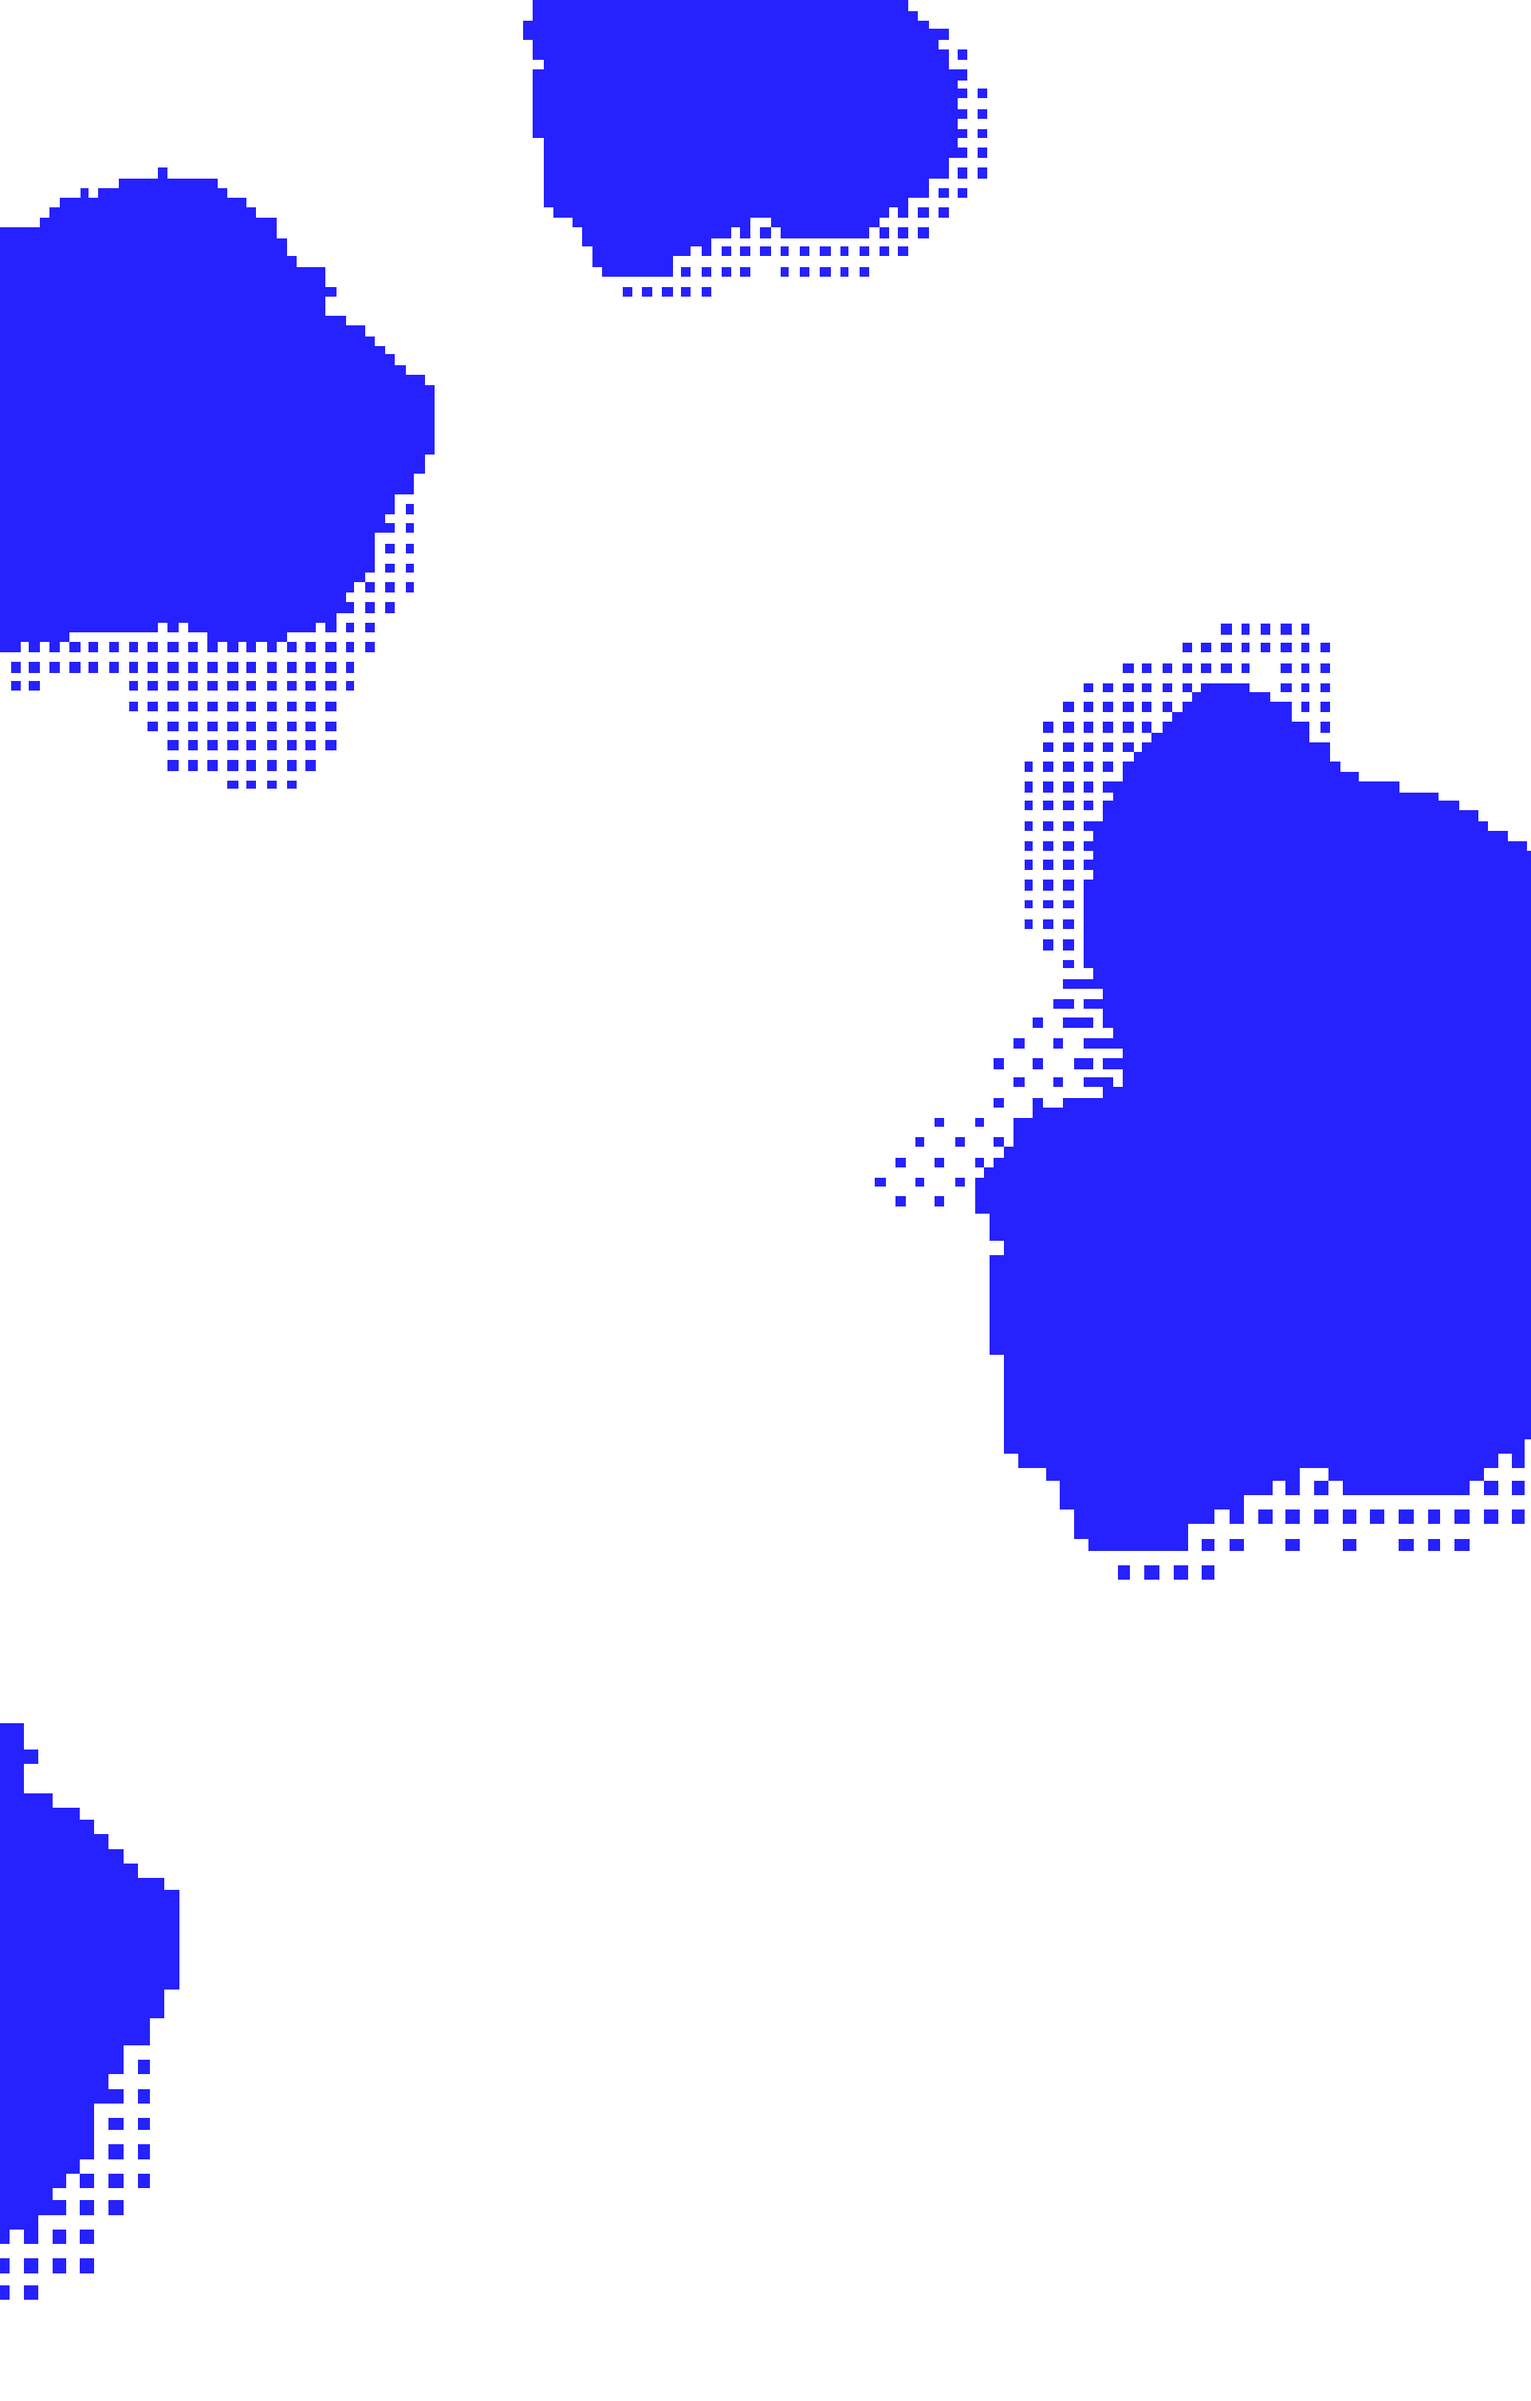
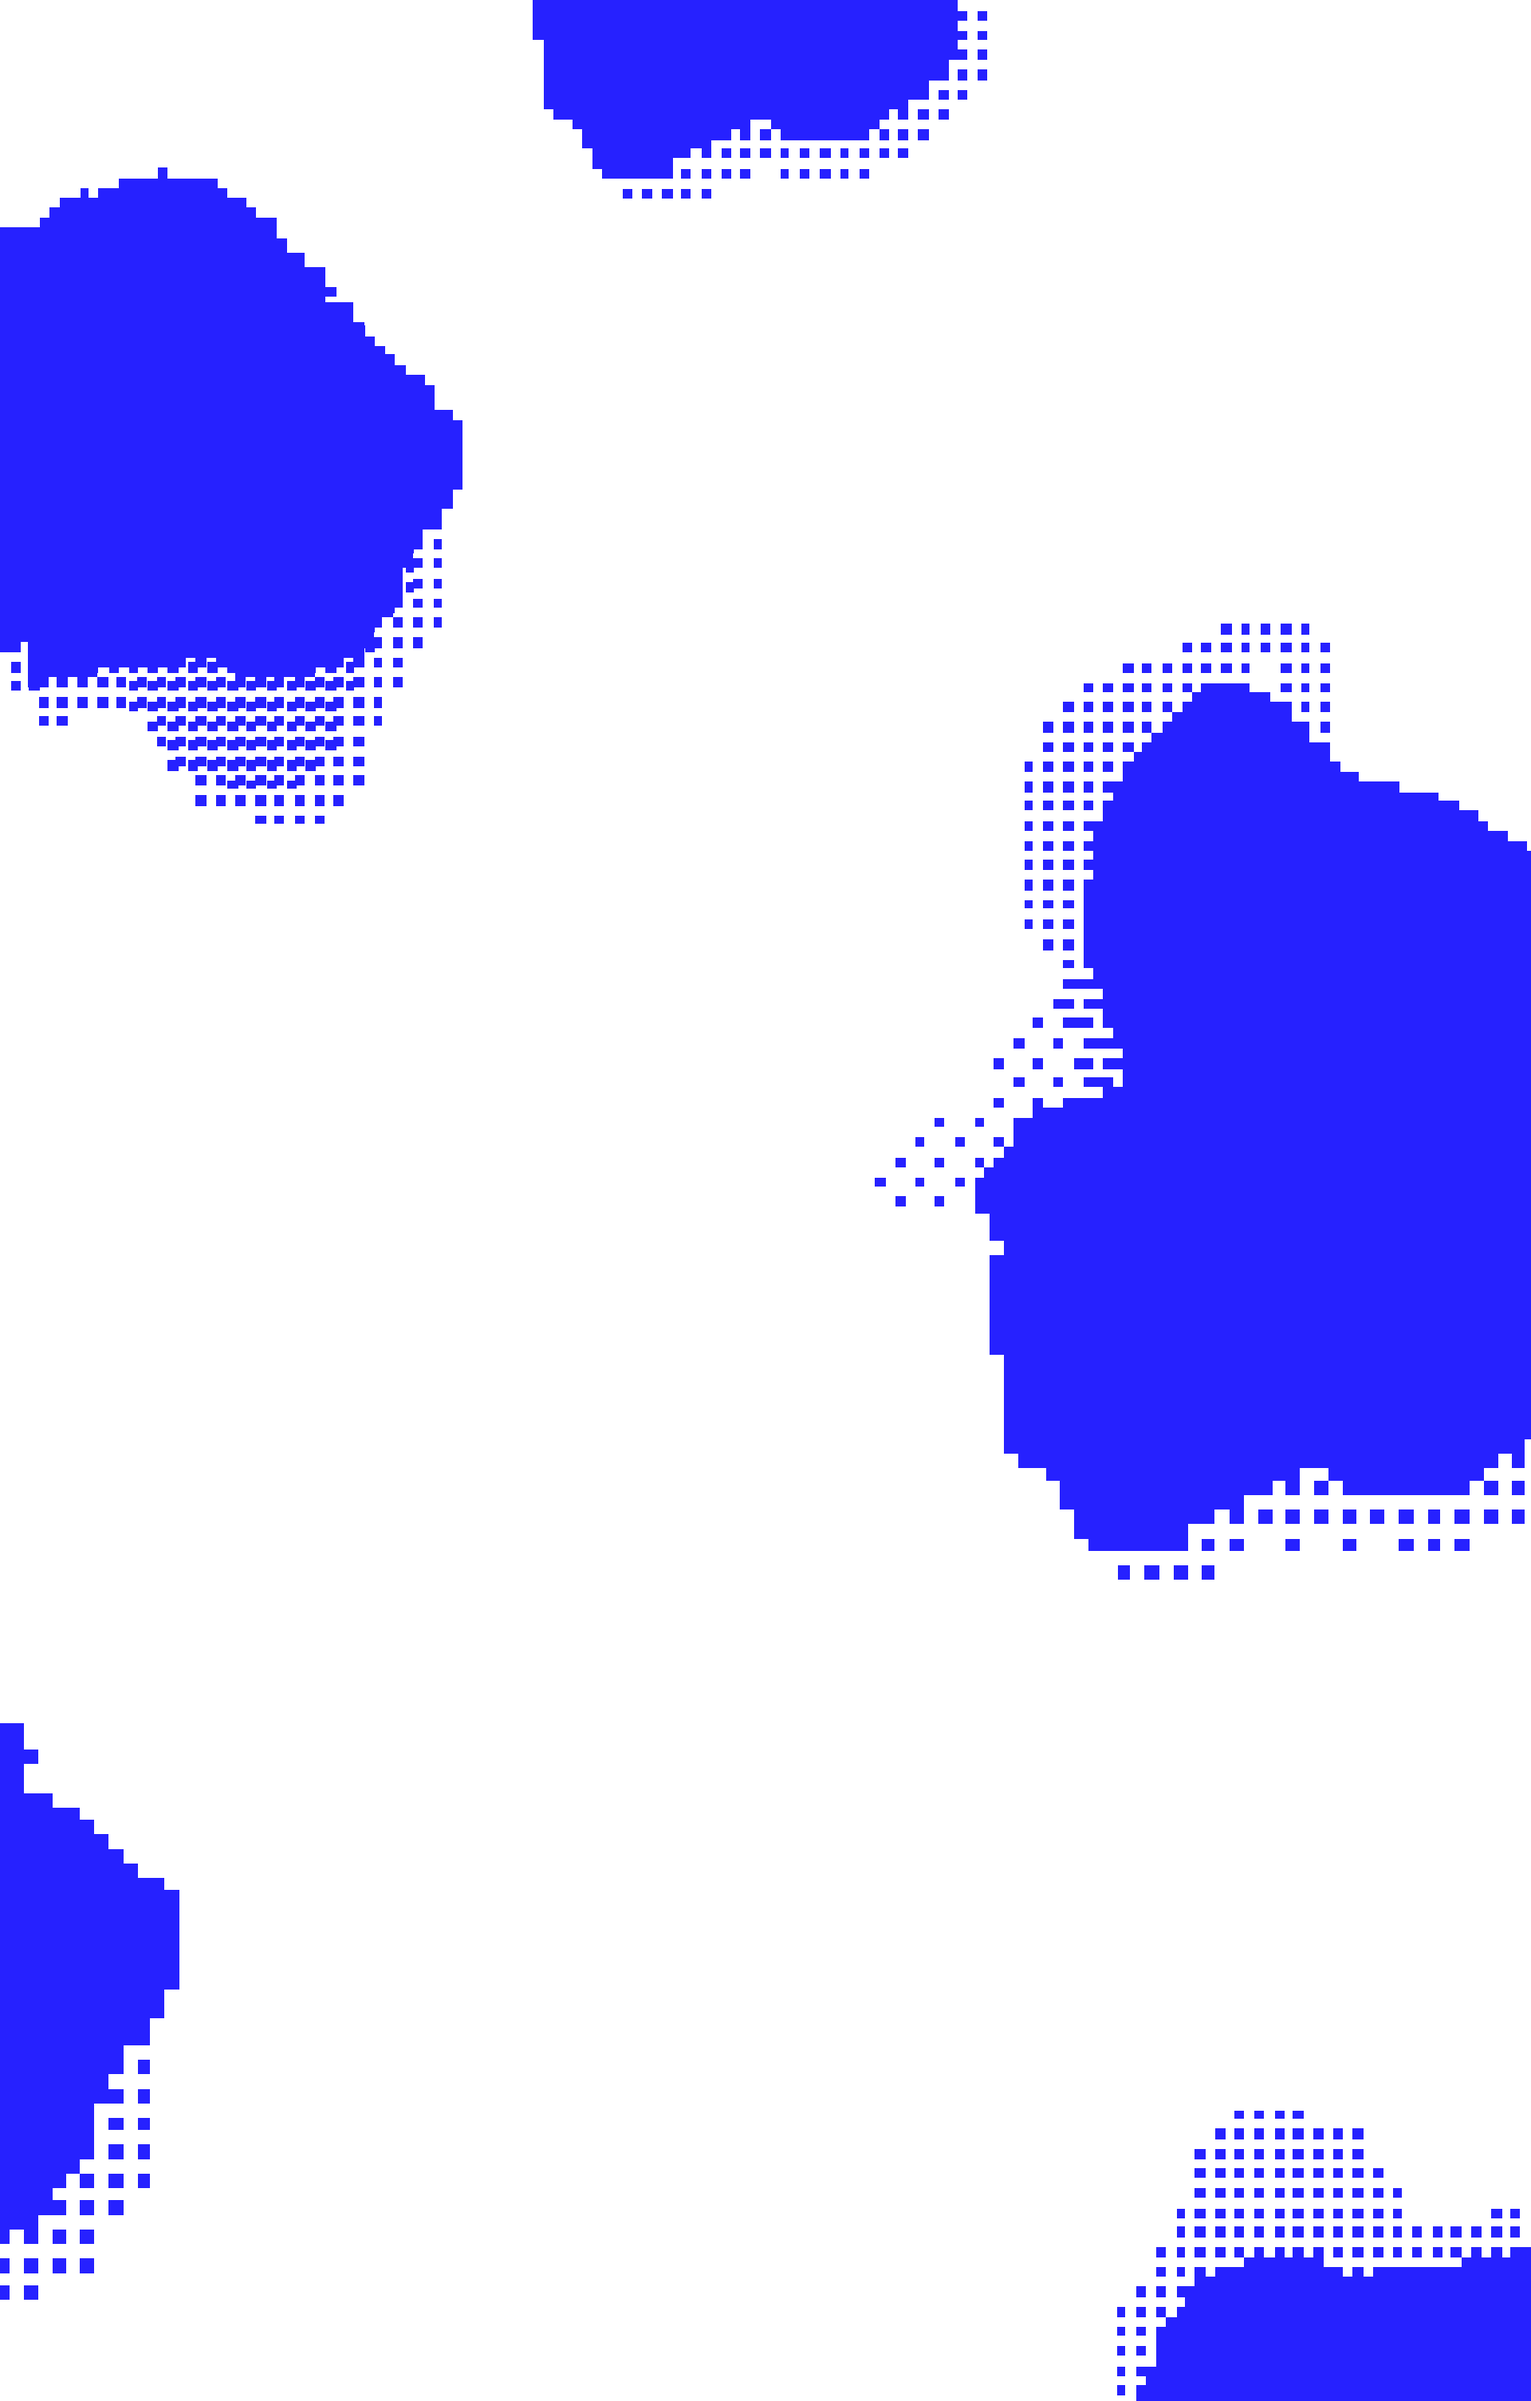
bg

Changed region(s): [[0.7188, 0.8741, 1.0, 1.0], [0.3438, 0.0, 0.6562, 0.1249], [0.0, 0.1561, 0.3125, 0.3434]]

diff --git a/public/lcd.css b/public/lcd.css
@@ -252,8 +252,8 @@ select#allSections {
 
 .fundraiser-winter-23,
 .fundraiser-winter-23.featured.session,
-.fundraiser-winter-23.featured  {
- /* background-color: var(--sex-ed-background)  !important; */
+.fundraiser-winter-23.featured,
+.fundraiser-winter-23 .stacked .grid-1 .grid-4  {
  color: var(--fundraiser-winter-23-text);
  box-sizing: border-box;
  border-color: var(--fundraiser-winter-23-text);
@@ -270,13 +270,24 @@ select#allSections {
 
 
      .shell.fundraiser-winter-23 {
-       background-image:url('images/fundraiser/winter-23/bg.jpg');
-       /* background-position: bottom; */
-       /* background-repeat: no-repeat;
-       background-size: cover; */
+       /* background-image:url('images/fundraiser/winter-23/bg.jpg');
        background-position: top left;
        background-repeat: repeat;
-       background-size: cover;
+       background-size: cover; */
+     }
+
+     .shell.fundraiser-winter-23, .fundraiser-winter-23.featured.session {
+       background-image:url('images/fundraiser/winter-23/color-bg-1.png'), url('images/fundraiser/winter-23/bg.jpg');
+       background-position: 200px left;
+       background-repeat: no-repeat, repeat;
+       background-size: cover, 40%;
+     }
+
+
+     .shell.fundraiser-winter-23 {
+       /* background-image: url('images/fundraiser/winter-23/bg.jpg');
+       background-size: 40%;
+       background-repeat: repeat; */
      }
 
 
@@ -464,11 +475,7 @@ select#allSections {
         border-color: var(--fundraiser-winter-23-text);
       }
 
-      .shell.fundraiser-winter-23 {
-        background-image: url('images/fundraiser/winter-23/bg.jpg');
-        background-size: 40%;
-        background-repeat: repeat;
-      }
+
 
       .fundraiser-winter-23 .addon-item {
         border: 2px dotted var(--fundraiser-winter-23-link) !important;
